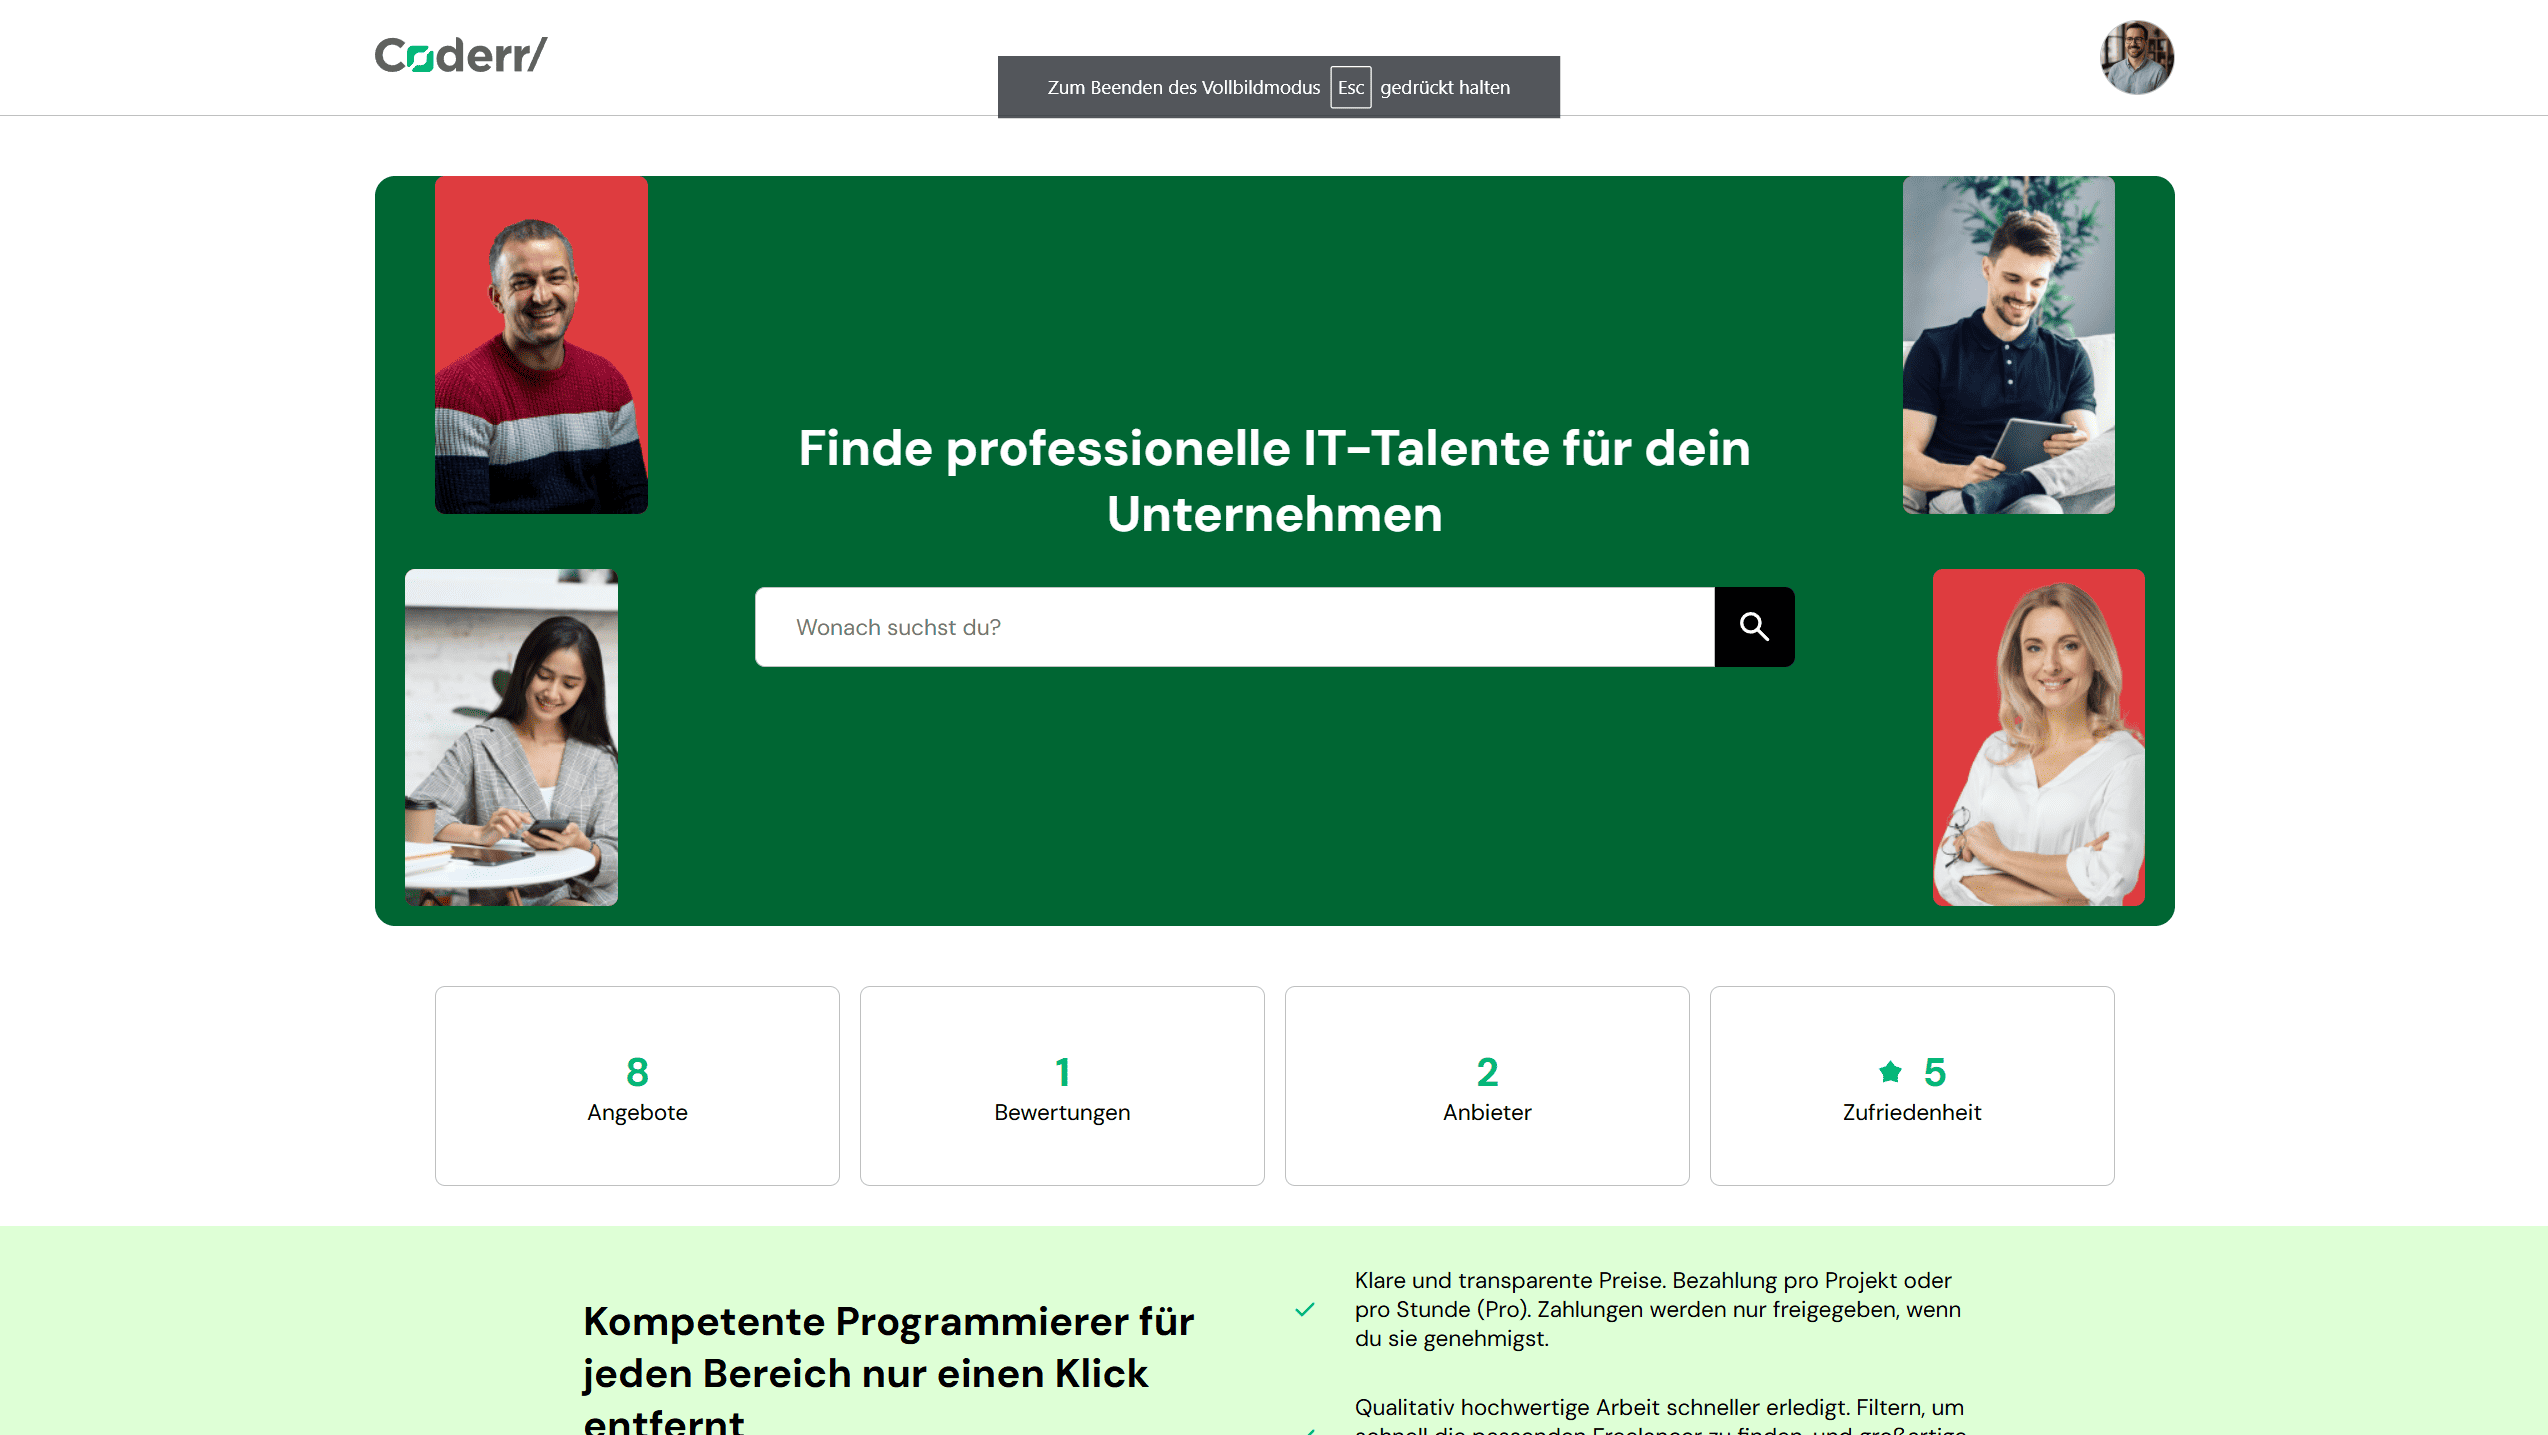
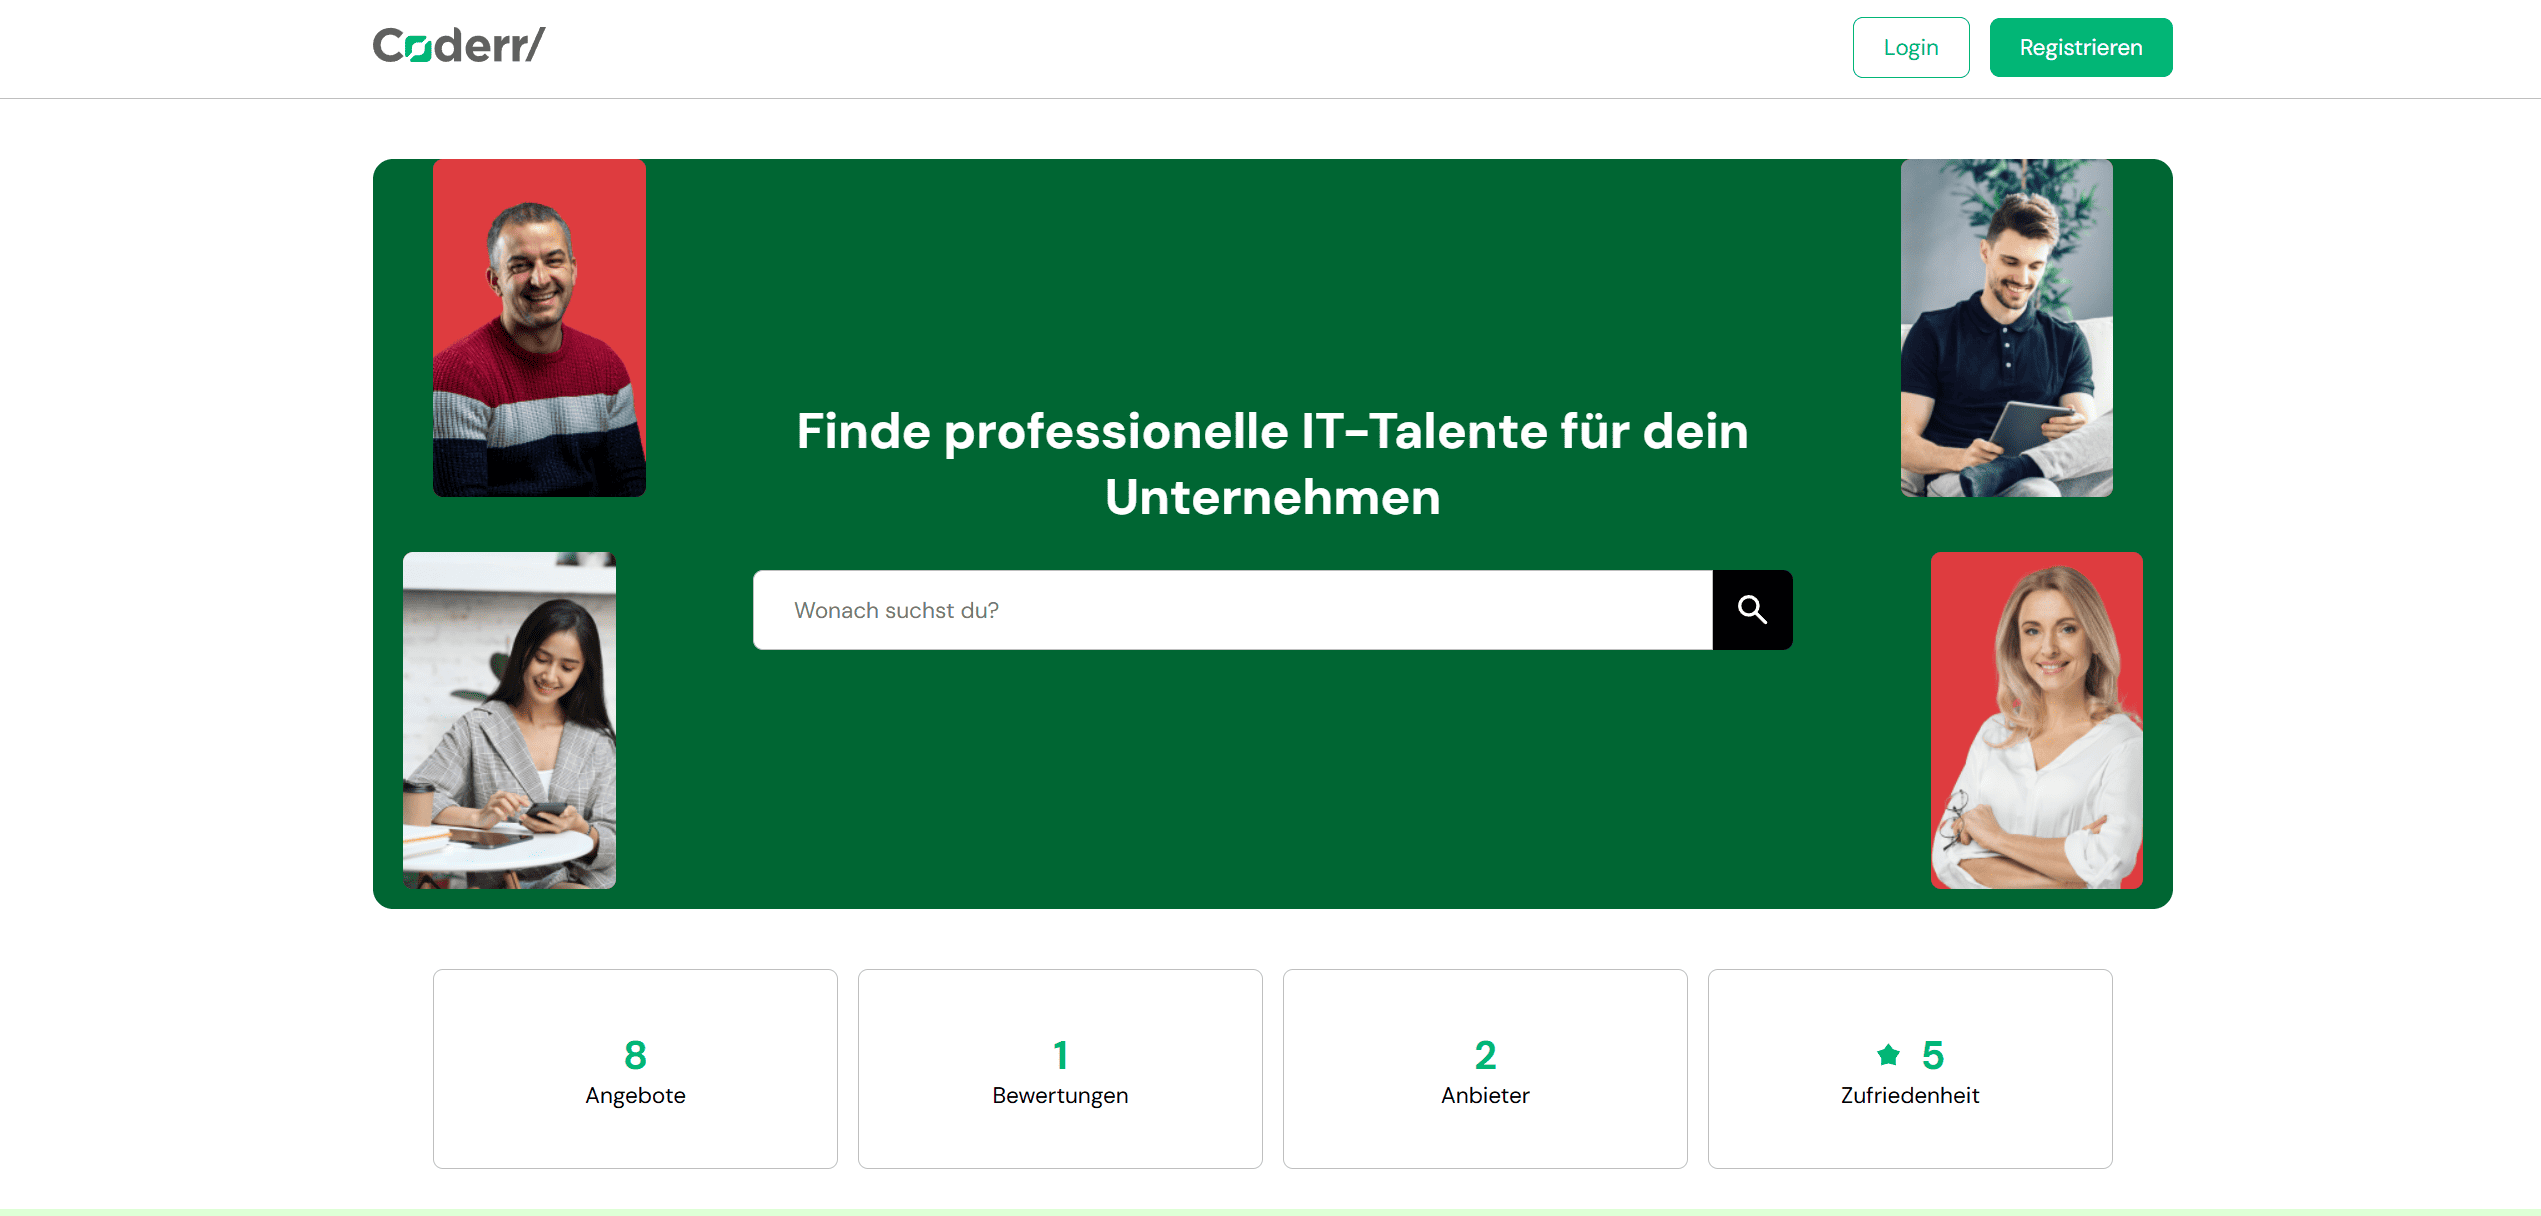
changed border-radius of project images

diff --git a/src/app/main-page/featured-projects/featured-projects.component.scss b/src/app/main-page/featured-projects/featured-projects.component.scss
@@ -18,7 +18,7 @@ app-detail-project {
 section {
     @include d-position($jc: center, $ai: auto, $fd: column);
     width: 100%;
-    padding: 48px clamp(0.5rem, -0.6rem + 5.5vw, 6rem);
+    padding: 48px clamp(0.5rem, -0.6rem + 5.5vw, 6rem) 60px clamp(0.5rem, -0.6rem + 5.5vw, 6rem);
     gap: 50px;
     max-width: 1920px;
 

diff --git a/src/app/main-page/featured-projects/project/project.component.scss b/src/app/main-page/featured-projects/project/project.component.scss
@@ -69,7 +69,7 @@ section {
     img {
         width: 296px;
         height: 192px;
-        border-radius: 30px;
+        border-radius: 10px;
     }
 
     .project-img {
